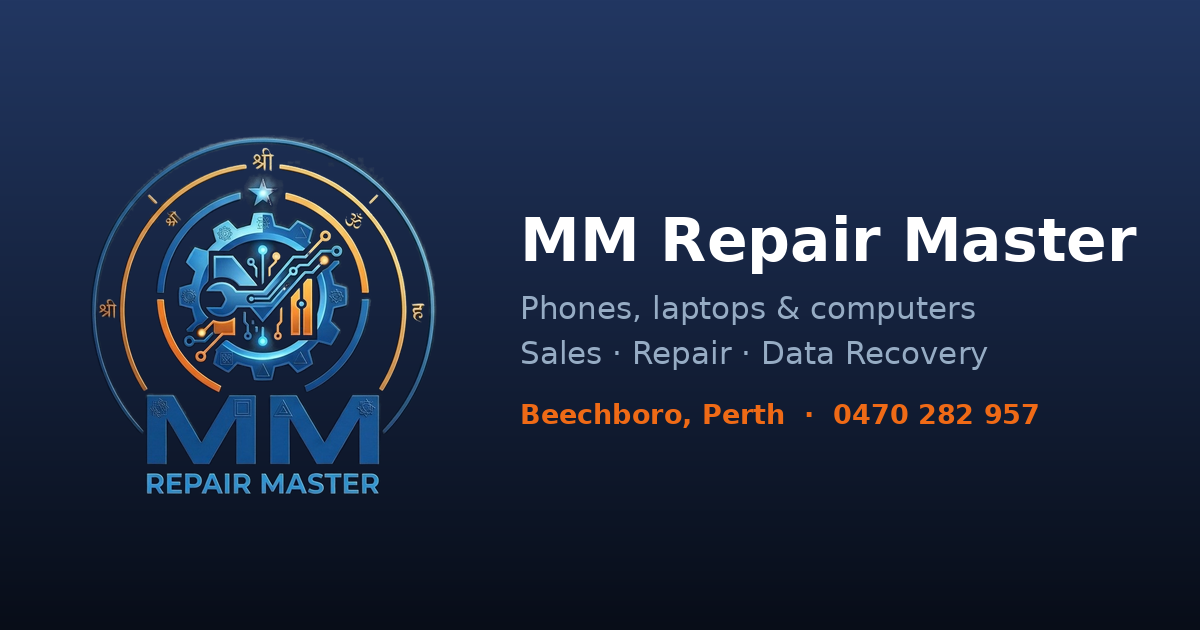
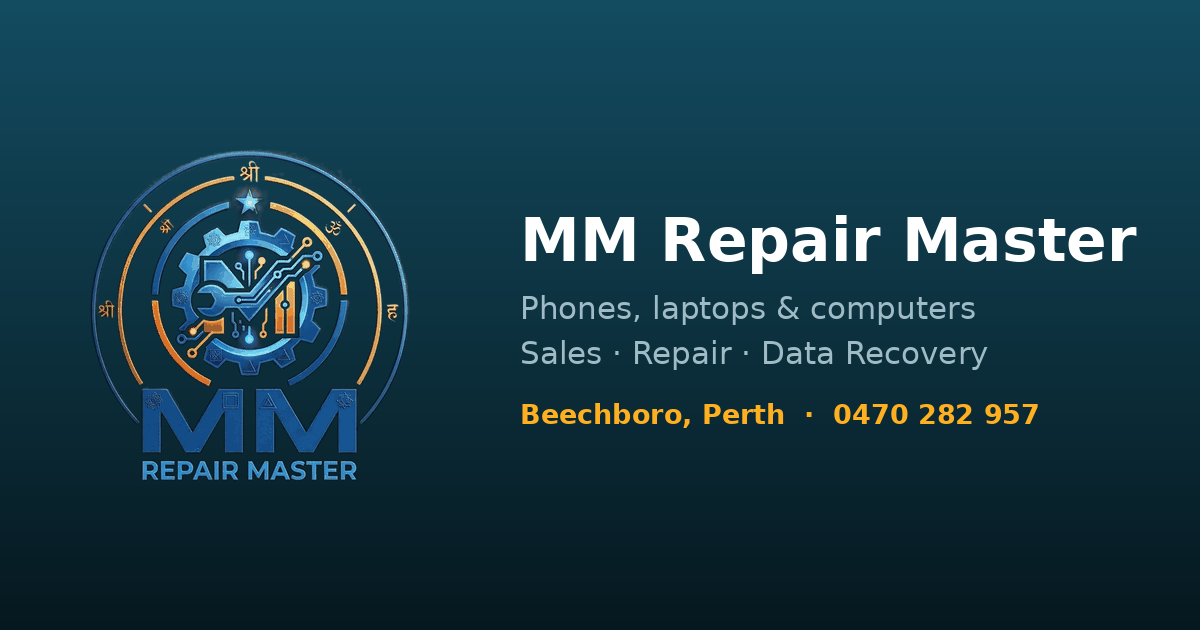
Switch to the Amber palette: teal-navy with a gold call button
Replaces the blue-and-orange scheme at the client's request. Gold was
chosen for contrast: dark ink on gold measures 10.15:1, making the Call
button the highest-contrast element on every page, which matters for a
business whose conversion path is a phone call.

- New light and dark token sets, switching on prefers-color-scheme
- Regenerated all 7 service illustrations in teal and gold
- Regenerated the social share image to match
- Updated theme-color across all 12 pages
- Hero glows, step markers and logo shadow retuned to teal

Audited: 0 contrast failures across 12 pairings in light mode and 12 in
dark. Gold remains reserved for actions so the Call button keeps salience.

The logo stays blue and orange; it is the client's identity and reads as a
family with teal and gold rather than clashing.

Claude-Session: https://claude.ai/code/session_01MpkE5dMP2aJUCXURKsfjnZ

Changed region(s): [[0.0617, 0.2111, 0.37, 0.7841], [0.4317, 0.6333, 0.8633, 0.6937]]

diff --git a/assets/style.css b/assets/style.css
@@ -6,24 +6,26 @@
    ========================================================= */
 
 :root {
-  /* Brand — swap these two if a logo sets a different palette */
-  --accent:        #ef6a16;   /* logo orange - button + accent FILLS */
-  --accent-ink:    #0d1420;   /* text ON orange fills: 5.93:1, passes AA */
-  --accent-text:   #c2410c;   /* orange TEXT on light surfaces: 5.18:1 */
-  --accent-soft:   #fff0e4;
-  --brand:         #1f6fd0;   /* logo blue - brand / structure */
-  --brand-soft:    #e8f1fc;
+  /* Brand - teal-navy structure with a gold call to action.
+     Gold is the highest-contrast accent available: dark ink on gold
+     measures 10.15:1, so the Call button is the loudest thing on the page. */
+  --accent:        #ffb020;   /* gold - button + accent FILLS */
+  --accent-ink:    #1a1203;   /* text ON gold: 10.15:1 */
+  --accent-text:   #8a5a00;   /* gold-brown TEXT on light surfaces: 5.93:1 */
+  --accent-soft:   #fff2d6;
+  --brand:         #0b6c86;   /* deep teal - structure, icons, steps */
+  --brand-soft:    #dcf0f5;
 
-  --ink:           #121c28;
-  --ink-2:         #2b3a4d;
-  --muted:         #5c6f85;
+  --ink:           #07171c;
+  --ink-2:         #1d3640;
+  --muted:         #4e6771;
   --bg:            #ffffff;
-  --surface:       #f4f7fa;
-  --surface-2:     #eaf0f6;
-  --border:        #dde5ee;
-  --navy:          #080d18;
-  --on-navy:       #e8eef6;
-  --on-navy-muted: #94a6bd;
+  --surface:       #f0f5f6;
+  --surface-2:     #e2ecee;
+  --border:        #d3e2e5;
+  --navy:          #06181f;
+  --on-navy:       #e8f3f6;
+  --on-navy-muted: #9fbcc6;
 
   --ok:            #1a7f4b;
 
@@ -41,25 +43,33 @@
 
 @media (prefers-color-scheme: dark) {
   :root:not([data-theme="light"]) {
-    --ink:         #eaf1f8;
-    --ink-2:       #c6d4e3;
-    --muted:       #9bacc1;
-    --bg:          #0c1320;
-    --surface:     #131d2b;
-    --surface-2:   #1b2737;
-    --border:      #253346;
-    --navy:        #070c15;
-    --accent-soft: #2d1a0b;
-    --brand-soft:  #0f1f33;
-    --accent-text: #ff8a3d;
+    --ink:         #e9f4f7;
+    --ink-2:       #c3d8de;
+    --muted:       #93aeb7;
+    --bg:          #081a21;
+    --surface:     #102a34;
+    --surface-2:   #183743;
+    --border:      #23424e;
+    --navy:        #040f14;
+    --brand:       #45b9da;
+    --brand-soft:  #0d2b35;
+    --accent:      #ffb020;
+    --accent-ink:  #1a1203;
+    --accent-text: #ffc451;
+    --accent-soft: #2e2208;
+    --on-navy:     #e8f3f6;
+    --on-navy-muted: #9fbcc6;
     --shadow:      0 1px 2px rgba(0,0,0,.4), 0 8px 24px rgba(0,0,0,.35);
     --shadow-lg:   0 2px 4px rgba(0,0,0,.45), 0 18px 48px rgba(0,0,0,.5);
   }
 }
 :root[data-theme="dark"] {
-  --ink: #eaf1f8; --ink-2: #c6d4e3; --muted: #9bacc1;
-  --bg: #0c1320; --surface: #131d2b; --surface-2: #1b2737;
-  --border: #253346; --navy: #05080f; --accent-soft: #2d1a0b; --brand-soft: #0f1f33; --accent-text: #ff8a3d;
+  --ink: #e9f4f7; --ink-2: #c3d8de; --muted: #93aeb7;
+  --bg: #081a21; --surface: #102a34; --surface-2: #183743;
+  --border: #23424e; --navy: #040f14;
+  --brand: #45b9da; --brand-soft: #0d2b35;
+  --accent: #ffb020; --accent-ink: #1a1203; --accent-text: #ffc451;
+  --accent-soft: #2e2208;
   --shadow: 0 1px 2px rgba(0,0,0,.4), 0 8px 24px rgba(0,0,0,.35);
   --shadow-lg: 0 2px 4px rgba(0,0,0,.45), 0 18px 48px rgba(0,0,0,.5);
 }
@@ -214,8 +224,8 @@ img.logo__mark {
 .hero::after {
   content: ""; position: absolute; inset: 0;
   background:
-    radial-gradient(900px 420px at 86% -12%, rgba(31,111,208,.40), transparent 66%),
-    radial-gradient(620px 360px at 8% 104%, rgba(239,106,22,.22), transparent 62%);
+    radial-gradient(900px 420px at 86% -12%, rgba(13,124,152,.46), transparent 66%),
+    radial-gradient(620px 360px at 8% 104%, rgba(255,176,32,.20), transparent 62%);
   pointer-events: none;
 }
 .hero > .wrap { position: relative; z-index: 1; }
@@ -277,7 +287,7 @@ img.logo__mark {
   counter-increment: step; content: counter(step);
   position: absolute; top: 0; left: 0;
   width: 44px; height: 44px; border-radius: 50%;
-  background: linear-gradient(145deg, #2e86e0, var(--brand)); color: #fff;
+  background: linear-gradient(145deg, #13a0c2, var(--brand)); color: #fff;
   font-family: var(--font-head); font-weight: 700; font-size: 1.15rem;
   display: grid; place-items: center;
 }
@@ -351,7 +361,7 @@ img.logo__mark {
 }
 .band::after {
   content: ""; position: absolute; inset: 0;
-  background: radial-gradient(600px 300px at 50% -20%, rgba(31,111,208,.38), transparent 70%);
+  background: radial-gradient(600px 300px at 50% -20%, rgba(13,124,152,.42), transparent 70%);
   pointer-events: none;
 }
 .band > * { position: relative; z-index: 1; }

diff --git a/services/computer-laptop-repair.html b/services/computer-laptop-repair.html
@@ -7,7 +7,7 @@
 <meta name="description" content="Laptop and computer repair in Beechboro, Perth. Screen and battery replacement, boot failures, failed drives, slow machines and upgrades. Quoted before we start. Call 0470 282 957.">
 <link rel="canonical" href="https://mmrepairmaster.com.au/services/computer-laptop-repair.html">
 <meta name="robots" content="index, follow, max-image-preview:large">
-<meta name="theme-color" content="#0f1b2d">
+<meta name="theme-color" content="#06181f">
 
 <meta property="og:type" content="website">
 <meta property="og:site_name" content="MM Repair Master">

diff --git a/services/data-recovery.html b/services/data-recovery.html
@@ -7,7 +7,7 @@
 <meta name="description" content="Data recovery in Beechboro, Perth. Recover photos and files from failed drives, formatted disks, dead phones, memory cards and USB sticks. Free assessment first. Call 0470 282 957.">
 <link rel="canonical" href="https://mmrepairmaster.com.au/services/data-recovery.html">
 <meta name="robots" content="index, follow, max-image-preview:large">
-<meta name="theme-color" content="#0f1b2d">
+<meta name="theme-color" content="#06181f">
 
 <meta property="og:type" content="website">
 <meta property="og:site_name" content="MM Repair Master">

diff --git a/services/phone-repair.html b/services/phone-repair.html
@@ -7,7 +7,7 @@
 <meta name="description" content="Phone repair in Beechboro, Perth. Cracked screens, battery replacement, charging ports and water damage. iPhone, Samsung, Google and more. Most repairs same day. Call 0470 282 957.">
 <link rel="canonical" href="https://mmrepairmaster.com.au/services/phone-repair.html">
 <meta name="robots" content="index, follow, max-image-preview:large">
-<meta name="theme-color" content="#0f1b2d">
+<meta name="theme-color" content="#06181f">
 
 <meta property="og:type" content="website">
 <meta property="og:site_name" content="MM Repair Master">

diff --git a/services/cctv-installation.html b/services/cctv-installation.html
@@ -7,7 +7,7 @@
 <meta name="description" content="CCTV installation and service in Beechboro, Perth. Security camera systems for homes and businesses, set up for phone viewing, plus servicing and upgrades. Call 0470 282 957.">
 <link rel="canonical" href="https://mmrepairmaster.com.au/services/cctv-installation.html">
 <meta name="robots" content="index, follow, max-image-preview:large">
-<meta name="theme-color" content="#0f1b2d">
+<meta name="theme-color" content="#06181f">
 
 <meta property="og:type" content="website">
 <meta property="og:site_name" content="MM Repair Master">

diff --git a/services/device-sales.html b/services/device-sales.html
@@ -7,7 +7,7 @@
 <meta name="description" content="Mobile phones, laptops and computers for sale in Beechboro, Perth. New and refurbished devices, set up and data transferred before you leave. Call 0470 282 957.">
 <link rel="canonical" href="https://mmrepairmaster.com.au/services/device-sales.html">
 <meta name="robots" content="index, follow, max-image-preview:large">
-<meta name="theme-color" content="#0f1b2d">
+<meta name="theme-color" content="#06181f">
 
 <meta property="og:type" content="website">
 <meta property="og:site_name" content="MM Repair Master">

diff --git a/index.html b/index.html
@@ -7,7 +7,7 @@
 <meta name="description" content="Phone, laptop and computer repair in Beechboro, Perth. Screens, batteries, data recovery, virus removal, device sales, gaming PCs and CCTV. Quoted before we start. Call 0470 282 957.">
 <link rel="canonical" href="https://mmrepairmaster.com.au/">
 <meta name="robots" content="index, follow, max-image-preview:large">
-<meta name="theme-color" content="#0f1b2d">
+<meta name="theme-color" content="#06181f">
 
 <meta property="og:type" content="website">
 <meta property="og:site_name" content="MM Repair Master">

diff --git a/services/gaming-pc-setup.html b/services/gaming-pc-setup.html
@@ -7,7 +7,7 @@
 <meta name="description" content="Gaming PC builds, upgrades and setup in Beechboro, Perth. Custom builds to your budget, GPU and cooling upgrades, performance tuning. Call 0470 282 957.">
 <link rel="canonical" href="https://mmrepairmaster.com.au/services/gaming-pc-setup.html">
 <meta name="robots" content="index, follow, max-image-preview:large">
-<meta name="theme-color" content="#0f1b2d">
+<meta name="theme-color" content="#06181f">
 
 <meta property="og:type" content="website">
 <meta property="og:site_name" content="MM Repair Master">

diff --git a/services/virus-malware-removal.html b/services/virus-malware-removal.html
@@ -7,7 +7,7 @@
 <meta name="description" content="Virus and malware removal in Beechboro, Perth. Adware, pop-ups, browser hijacks, scareware and ransomware cleared out properly. Call 0470 282 957.">
 <link rel="canonical" href="https://mmrepairmaster.com.au/services/virus-malware-removal.html">
 <meta name="robots" content="index, follow, max-image-preview:large">
-<meta name="theme-color" content="#0f1b2d">
+<meta name="theme-color" content="#06181f">
 
 <meta property="og:type" content="website">
 <meta property="og:site_name" content="MM Repair Master">

diff --git a/about.html b/about.html
@@ -7,7 +7,7 @@
 <meta name="description" content="MM Repair Master is a phone, laptop and computer repair kiosk at The Spring Shopping Centre in Beechboro, Perth. Sales, repair, data recovery and CCTV installation.">
 <link rel="canonical" href="https://mmrepairmaster.com.au/about.html">
 <meta name="robots" content="index, follow, max-image-preview:large">
-<meta name="theme-color" content="#0f1b2d">
+<meta name="theme-color" content="#06181f">
 
 <meta property="og:type" content="website">
 <meta property="og:site_name" content="MM Repair Master">

diff --git a/contact.html b/contact.html
@@ -7,7 +7,7 @@
 <meta name="description" content="Call 0470 282 957 or send us a message. Phone, laptop and computer repair, data recovery and CCTV installation at Kiosk 3, The Spring Shopping Centre, Beechboro.">
 <link rel="canonical" href="https://mmrepairmaster.com.au/contact.html">
 <meta name="robots" content="index, follow, max-image-preview:large">
-<meta name="theme-color" content="#0f1b2d">
+<meta name="theme-color" content="#06181f">
 
 <meta property="og:type" content="website">
 <meta property="og:site_name" content="MM Repair Master">

diff --git a/services.html b/services.html
@@ -7,7 +7,7 @@
 <meta name="description" content="Phone repair, laptop and computer repair, data recovery, virus removal, device sales, gaming PC builds and CCTV installation in Beechboro, Perth.">
 <link rel="canonical" href="https://mmrepairmaster.com.au/services.html">
 <meta name="robots" content="index, follow, max-image-preview:large">
-<meta name="theme-color" content="#0f1b2d">
+<meta name="theme-color" content="#06181f">
 
 <meta property="og:type" content="website">
 <meta property="og:site_name" content="MM Repair Master">
